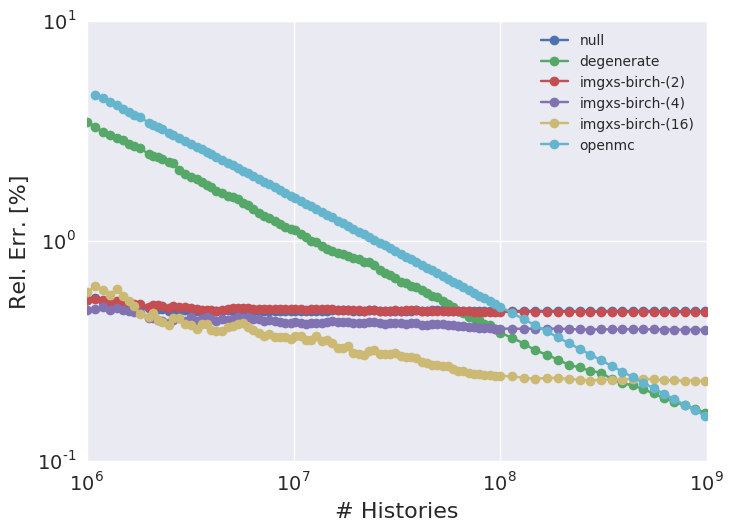
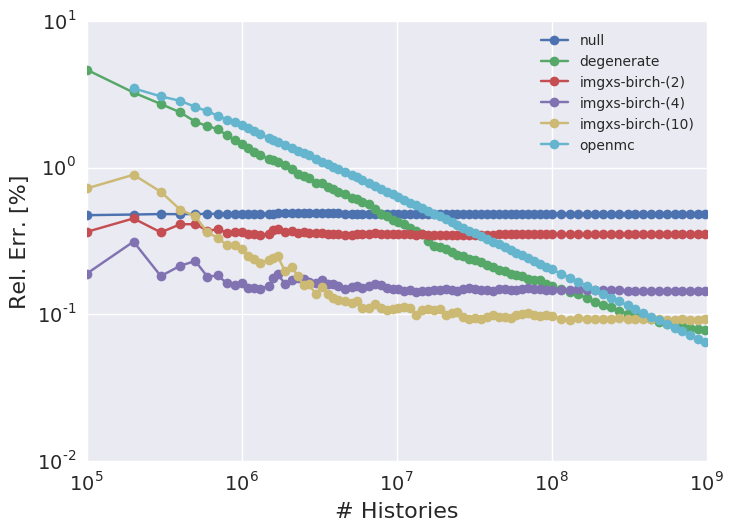
Working on synthesis for Chap. 11

diff --git a/chapters/results.tex b/chapters/results.tex
@@ -77,7 +77,7 @@ The OpenMOC eigenvalues were compared to the reference OpenMC eigenvalues from T
 & \ac{GMM} & & -136 & -136 & -137 & -132 & \\
 & $k$-means & & -136 & -136 & -134 & -132 & \\
   \midrule
-\multirow{4}{*}{\parbox{2.5cm}{BEAVRS Full Core}} & Agglomerative & \multirow{4}{*}{-122} & & -120 & -119 & -119 & \multirow{4}{*}{-116} \\
+\multirow{4}{*}{\parbox{2.5cm}{BEAVRS Quarter Core}} & Agglomerative & \multirow{4}{*}{-122} & & -120 & -119 & -119 & \multirow{4}{*}{-116} \\
 & BIRCH & &  & -120 & -120 & -119 & \\
 & \ac{GMM} & & & -119 & -118 & -119 & \\
 & $k$-means & & & -120 & -119 & -119 & \\
@@ -318,7 +318,7 @@ Since the tables simply represent a snapshot of the data illustrated in Figs.~\C
 & \ac{GMM} & & -2.00 & -1.77 & 1.50 & 1.07 & \\
 & $k$-means & & -1.82 & -1.69 & 1.35 & -1.26 & \\
   \midrule
-\multirow{4}{*}{\parbox{2.5cm}{BEAVRS Full Core}} & Agglomerative & \multirow{4}{*}{-4.78} & & -4.60 & -4.19 & -4.01 & \multirow{4}{*}{-3.03} \\
+\multirow{4}{*}{\parbox{2.5cm}{BEAVRS Quarter Core}} & Agglomerative & \multirow{4}{*}{-4.78} & & -4.60 & -4.19 & -4.01 & \multirow{4}{*}{-3.03} \\
 & BIRCH & & & -4.51 & -4.02 & -4.02 & \\
 & \ac{GMM} & & & -4.56 & -4.00 & -4.21 & \\
 & $k$-means & & & -4.61 & -4.21 & -4.02 & \\
@@ -372,7 +372,7 @@ Since the tables simply represent a snapshot of the data illustrated in Figs.~\C
 & \ac{GMM} & & 0.48 & 0.37 & 0.29 & 0.24 & \\
 & $k$-means & & 0.47 & 0.37 & 0.27 & 0.22 & \\
   \midrule
-\multirow{4}{*}{\parbox{2.5cm}{BEAVRS Full Core}} & Agglomerative & \multirow{4}{*}{0.49} & & 0.48 & 0.49 & 0.49 & \multirow{4}{*}{0.39} \\
+\multirow{4}{*}{\parbox{2.5cm}{BEAVRS Quarter Core}} & Agglomerative & \multirow{4}{*}{0.49} & & 0.48 & 0.49 & 0.49 & \multirow{4}{*}{0.39} \\
 & BIRCH & & & 0.48 & 0.48 & 0.49 & \\
 & \ac{GMM} & & & 0.51 & 0.50 & 0.51 & \\
 & $k$-means & & & 0.50 & 0.49 & 0.49 & \\
@@ -958,8 +958,33 @@ second paragraph:
  -each colorset
  -corner-baffle case
 
+-10 clusters for assemblies and periodic colorset; 16 clusters for coloreset with reflector
+
 -define a Figure of merit per Kord's suggestion
 -add rel. err. and uncertainty to the table
+
+\begin{table}[ht!]
+  \centering
+  \caption[OpenMC particle tracking rates]{The particle tracking rates for OpenMC.}
+  \small
+  \label{table:chap11-openmc-rates}
+  \vspace{6pt}
+  \begin{tabular}{l S[table-format=4.1] S[table-format=4.1]}
+  \toprule
+  & \multicolumn{2}{c}{\bf Active Histories / Core-Second} \\
+  \cline{2-3}
+  \multirow{-2}{*}{\bf Benchmark} &
+  \multicolumn{1}{c}{\bf With \ac{MGXS}} &
+  \multicolumn{1}{c}{\bf Without \ac{MGXS}\footnotemark} \\
+  \toprule
+Assemblies & 1100 & 3000 \\
+Colorsets & 1100 & 3000 \\
+BEAVRS Quarter Core & 600 & 2400 \\
+  \bottomrule
+\end{tabular}
+\end{table}
+
+\footnotetext{This corresponds to OpenMC calculations which only tallied the pin-wise fission and U-238 capture rates.}
 
 %OpenMC particles / sec / core
 %benchmark         no MGXs        MGXS
@@ -979,67 +1004,72 @@ second paragraph:
 
 \begin{table}[ht!]
   \centering
-  \caption[Computational resource requirements for each simulation approach]{The computational resources needed for various simulation approaches to reach the level of accuracy achieved with degenerate spatial homogenization.}
+  \caption[Computational resource requirements for each simulation approach]{The computational resources needed to reach a desired level of accuracy on the mean pin-wise U-238 capture rates in each benchmark.}
   \small
   \label{table:chap11-runtimes}
   \vspace{6pt}
-  \begin{tabular}{l l l l S[table-format=3.2] S[table-format=3.2] S[table-format=3.2]}
+  \begin{tabular}{l l c r S[table-format=3.2] S[table-format=3.2] S[table-format=3.2]}
   \toprule
-  & & & \multicolumn{3}{c}{\bf Runtime [core-hours]} \\
-  \cline{4-7}
+  & & & & \multicolumn{3}{c}{\bf Runtime [core-hours]} \\
+  \cline{5-7}
   \multirow{-2}{*}{\bf Benchmark} &
   \multirow{-2}{*}{\bf Scheme} &
-  \multirow{-2}{*}{\parbox{2cm}{\bf Max. Rel. \\ Err. [\%]}}
+  \multirow{-2}{*}{\parbox{1.75cm}{\bf Mean Rel. \\ Err. [\%]}} &
   \multirow{-2}{*}{\bf \# Histories} &
   \multicolumn{1}{c}{\bf OpenMC} &
   \multicolumn{1}{c}{\bf OpenMOC} &
   \multicolumn{1}{c}{\bf Total} \\
   \midrule
-%  \label{table:chap11-runtimes}
-%  \vspace{6pt}
-%  \begin{tabular}{l l R{2.5cm} R{1.5cm} S[table-format=3.2] S[table-format=3.2] S[table-format=3.2]}
-%  \toprule
-%  \rowcolor{lightgray}
-%  & & & \multicolumn{3}{c}{\cellcolor{lightgray} \bf Runtime [core-hours]} \\
-%  \multirow{-2}{*}{\cellcolor{lightgray} \bf Benchmark} &
-%  \multirow{-2}{*}{\cellcolor{lightgray} \bf Scheme} &
-%  \multirow{-2}{*}{\cellcolor{lightgray} \bf \# Particles} &
-%  \multirow{-2}{*}{\cellcolor{lightgray} \bf Rel. Err. [\%]} &
-%  \multicolumn{1}{c}{\cellcolor{lightgray} \bf OpenMC} &
-%  \multicolumn{1}{c}{\cellcolor{lightgray} \bf OpenMOC} &
-%  \multicolumn{1}{c}{\cellcolor{lightgray} \bf Total} \\
-%  \midrule
-\multirow{4}{*}{\parbox{2.5cm}{1.6\% Assm}} & Reference & 550,000,000 & & 57.2 & & 57.2 \\
-& Null & 100,000 & & 0.02 & 0.4 & 0.38 \\
-& Degenerate & 115,000,000 & & 27.7 & 0.4 & 28.1 \\
-& \textit{i}\ac{MGXS} & 4,000,000 & & 0.96 & 0.4 & 1.34 \\
+\multirow{4}{*}{\parbox{2.5cm}{1.6\% Assm}} & Null & 0.50 & 100,000 & 0.025 & 0.4 & 0.42 \\
+& \textit{i}\ac{MGXS}\footnotemark & 0.10 & 65,000,000 & 15 & 0.4 & 15 \\
+& Degenerate & 0.10 & 500,000,000 & 126 & 0.4 & 126 \\
+& Reference & 0.10 & 650,000,000	& 60 & & 60 \\
   \midrule
-\multirow{4}{*}{\parbox{2.5cm}{3.1\% Assm}} & Reference & 550,000,000 & & 50.7 & & 50.7 \\
-& Null & 100,000 & & 0.02 & 0.4 & 0.42 \\
-& Degenerate & 115,000,000 & & 25.3 & 0.4 & 25.7 \\
-& \textit{i}\ac{MGXS} & 4,000,000 & & 0.88 & 0.4 & 1.25 \\
+\multirow{4}{*}{\parbox{2.5cm}{3.1\% Assm}} & Null & 0.50 & 100,000 & 0.025 & 0.4 & 0.42 \\
+& \textit{i}\ac{MGXS}\textsuperscript{\ref{birch-assm}} & 0.1 & 65,000,000 & 15 & 0.4 & 15 \\
+& Degenerate & 0.10 & 500,000,000 & 126 & 0.4 & 126 \\
+& Reference & 0.10 & 650,000,000 & 60 & & 60 \\
   \midrule
-\multirow{4}{*}{\parbox{2.5cm}{3.1\% Assm w/ 20 \acp{BP}}} & Reference & 550,000,000 & & 50.1 & & 50.1 \\
-& Null & 100,000 & & 0.02 & 0.4 & 0.43 \\
-& Degenerate & 115,000,000 & & 27.7 & 0.4 & 28.1 \\
-& \textit{i}\ac{MGXS} & 4,000,000 & & 0.96 & 0.4 & 1.38 \\
+\multirow{4}{*}{\parbox{2.5cm}{3.1\% Assm w/ 20 \acp{BP}}} & Null & 0.41 & 100,000 & 0.025 & 0.4 & 0.42 \\
+& \textit{i}\ac{MGXS}\textsuperscript{\ref{birch-assm}} & 0.13 & 65,000,000 & 15 & 0.4 & 15 \\
+& Degenerate & 0.13 & 325,000,000 & 82 & 0.4 & 82 \\
+& Reference & 0.16 & 450,000,000 & 42 & & 42 \\
   \midrule
-\multirow{4}{*}{\parbox{2.5cm}{2$\times$2 Colorset}} & Reference & 8,755,000 & & 81.7 & & 81.7 \\
-& Null & 100,000 & & 0.04 & 2.0 & 2.03 \\
-& Degenerate & 700,000,000 & & 248 & 2.0 & 250 \\
-& \textit{i}\ac{MGXS} & 10,000,000 & & 3.54 & 2.0 & 5.50 \\
+\multirow{4}{*}{\parbox{2.5cm}{2$\times$2 Colorset}} & Null & 0.45 & 100,000 & 0.035 & 2.0 & 2.0 \\
+& \textit{i}\ac{MGXS}\textsuperscript{\ref{birch-assm}} & 0.16 & 100,000,000 & 35 & 2.0 & 35 \\
+& Degenerate & 0.16 & 1,000,000,000 & 347 & 2.0 & 349 \\
+& Reference & 0.16 & 1,000,000,000 & 93 & & 93 \\
   \midrule
-\multirow{4}{*}{\parbox{2.5cm}{2$\times$2 Colorset w/ Reflector}} & Reference & & & & & \\
-& Null & & & & 5.0 & \\
-& Degenerate & & & & 5.0 & \\
-& \textit{i}\ac{MGXS} & & & & 5.0 & \\
+\multirow{4}{*}{\parbox{2.5cm}{2$\times$2 Colorset w/ Reflector}} & Null & 0.48 & 100,000 & 0.035 & 5.0 & 5.0 \\
+& \textit{i}\ac{MGXS}\footnotemark & 0.25 & 85,000,000 & 30 & 5.0 & 35 \\
+& Degenerate & 0.25 & 450,000,000 & 156 & 5.0 & 161 \\
+& Reference & 0.25 & 550,000,000 & 51 & & 51 \\
   \midrule
-\multirow{4}{*}{\parbox{2.5cm}{BEAVRS Quarter Core}} & Reference & & & & & \\
-& Null & & & & 419 & \\
+\multirow{4}{*}{\parbox{2.5cm}{BEAVRS Quarter Core}} & Null & & & & 419 & \\
+& \textit{i}\ac{MGXS}\footnotemark & & & & 423 & \\
 & Degenerate & & & & 426 & \\
-& \textit{i}\ac{MGXS} & & & & 423 & \\
+& Reference & & & & &\\
   \bottomrule
 \end{tabular}
 \end{table}
 
-SUMMARY BOX!!!
+\addtocounter{footnote}{-3}
+\stepcounter{footnote}
+\footnotetext{\label{birch-assm}The results for the \textit{i}\ac{MGXS} scheme correspond to BIRCH clustering of 10 clusters.}
+
+\stepcounter{footnote}
+\footnotetext{\label{birch-refl}The results for the \textit{i}\ac{MGXS} scheme correspond to BIRCH clustering of 16 clusters.}
+
+\stepcounter{footnote}
+\footnotetext{\label{birch-beavrs}The results for the \textit{i}\ac{MGXS} scheme correspond to BIRCH clustering of ?? clusters.}
+
+
+\clearpage
+
+\vfill
+\begin{highlightsbox}[frametitle=Highlights]
+\begin{itemize}
+  \item The \textit{inferential \ac{MGXS}} (\textit{i}\ac{MGXS}) spatial homogenization scheme uses unsupervised clustering analysis of \ac{MC} tally data to predict which fuel pins experience similar spatial self-shielding effects.
+\end{itemize}
+\end{highlightsbox}
+\vfill
